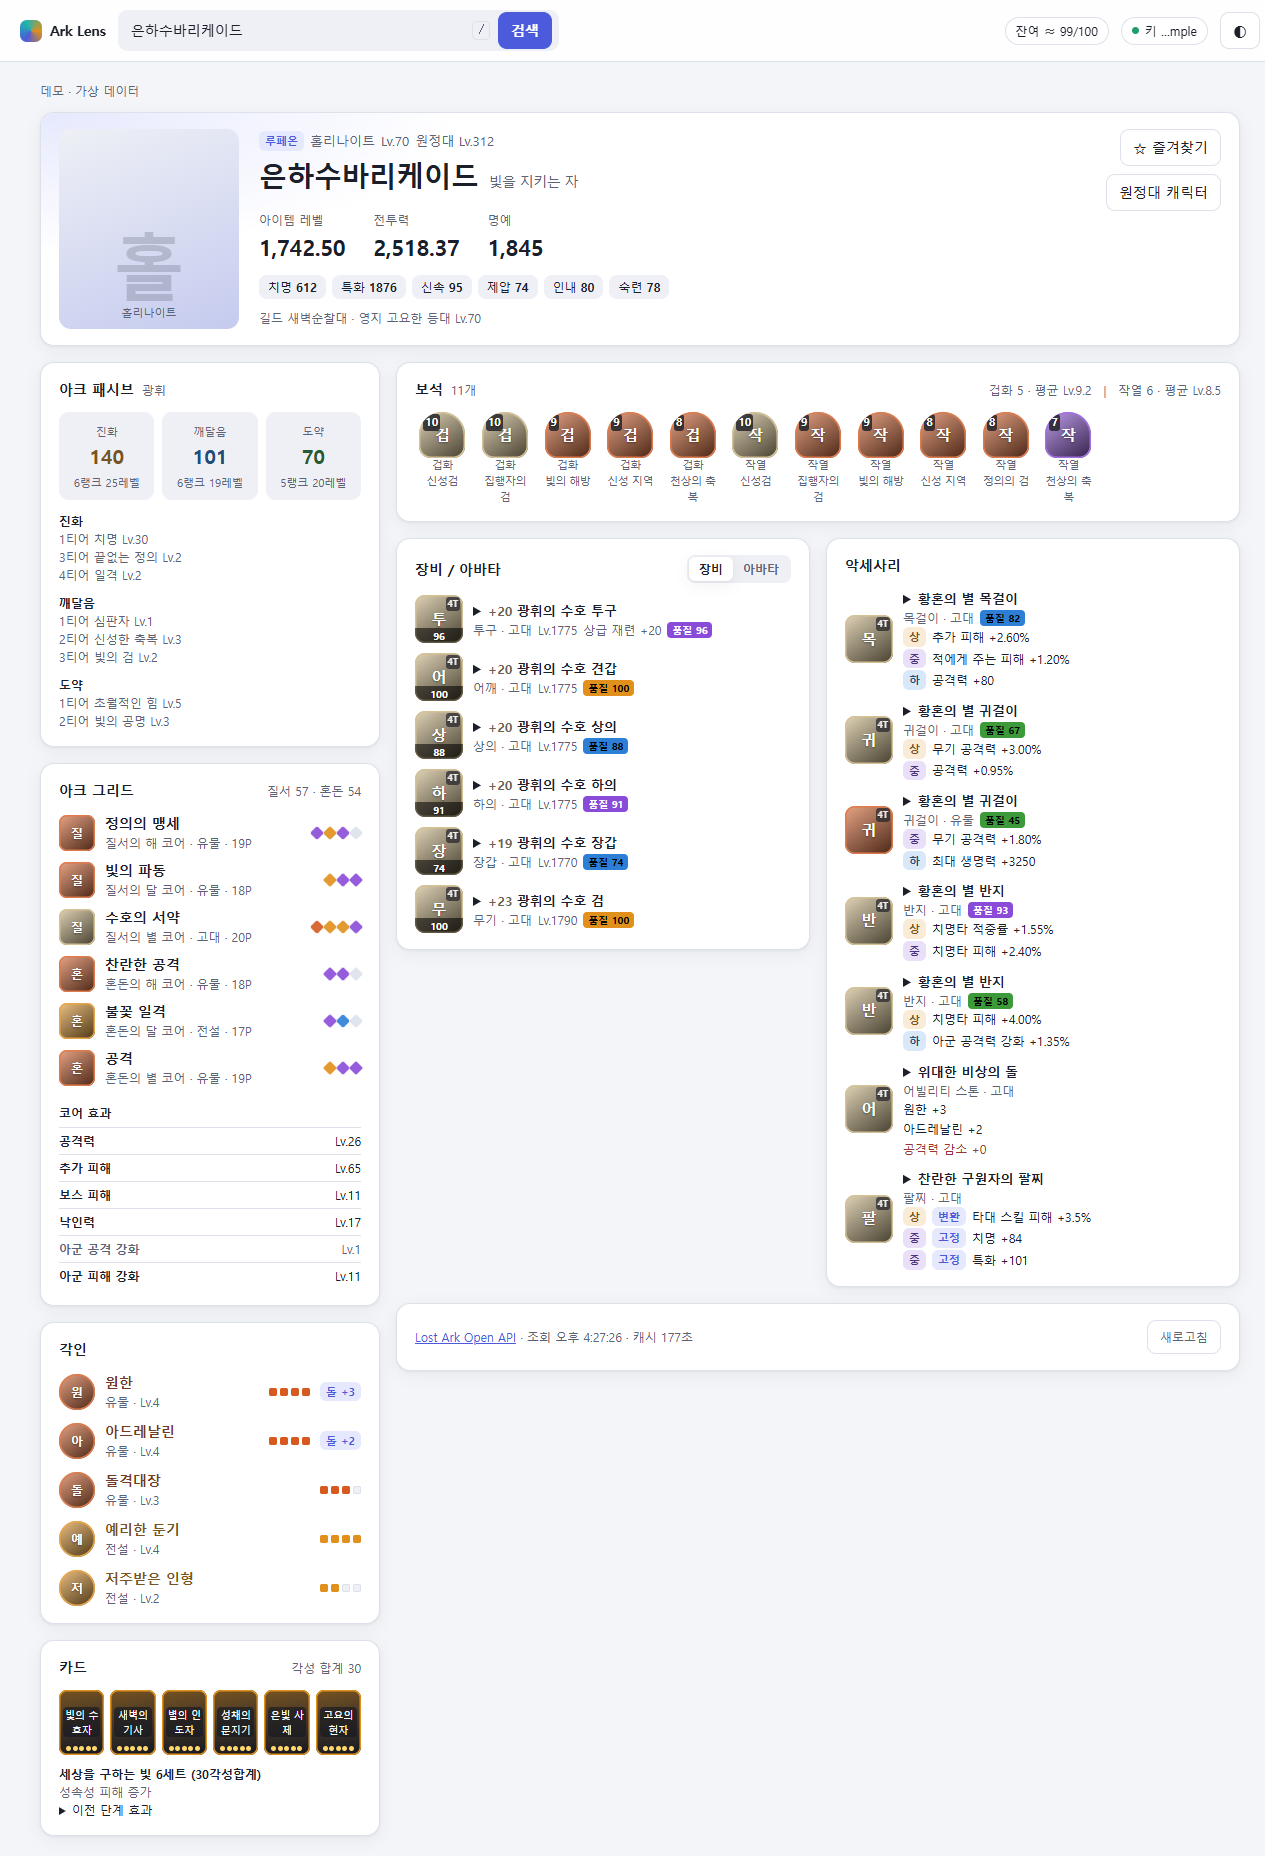
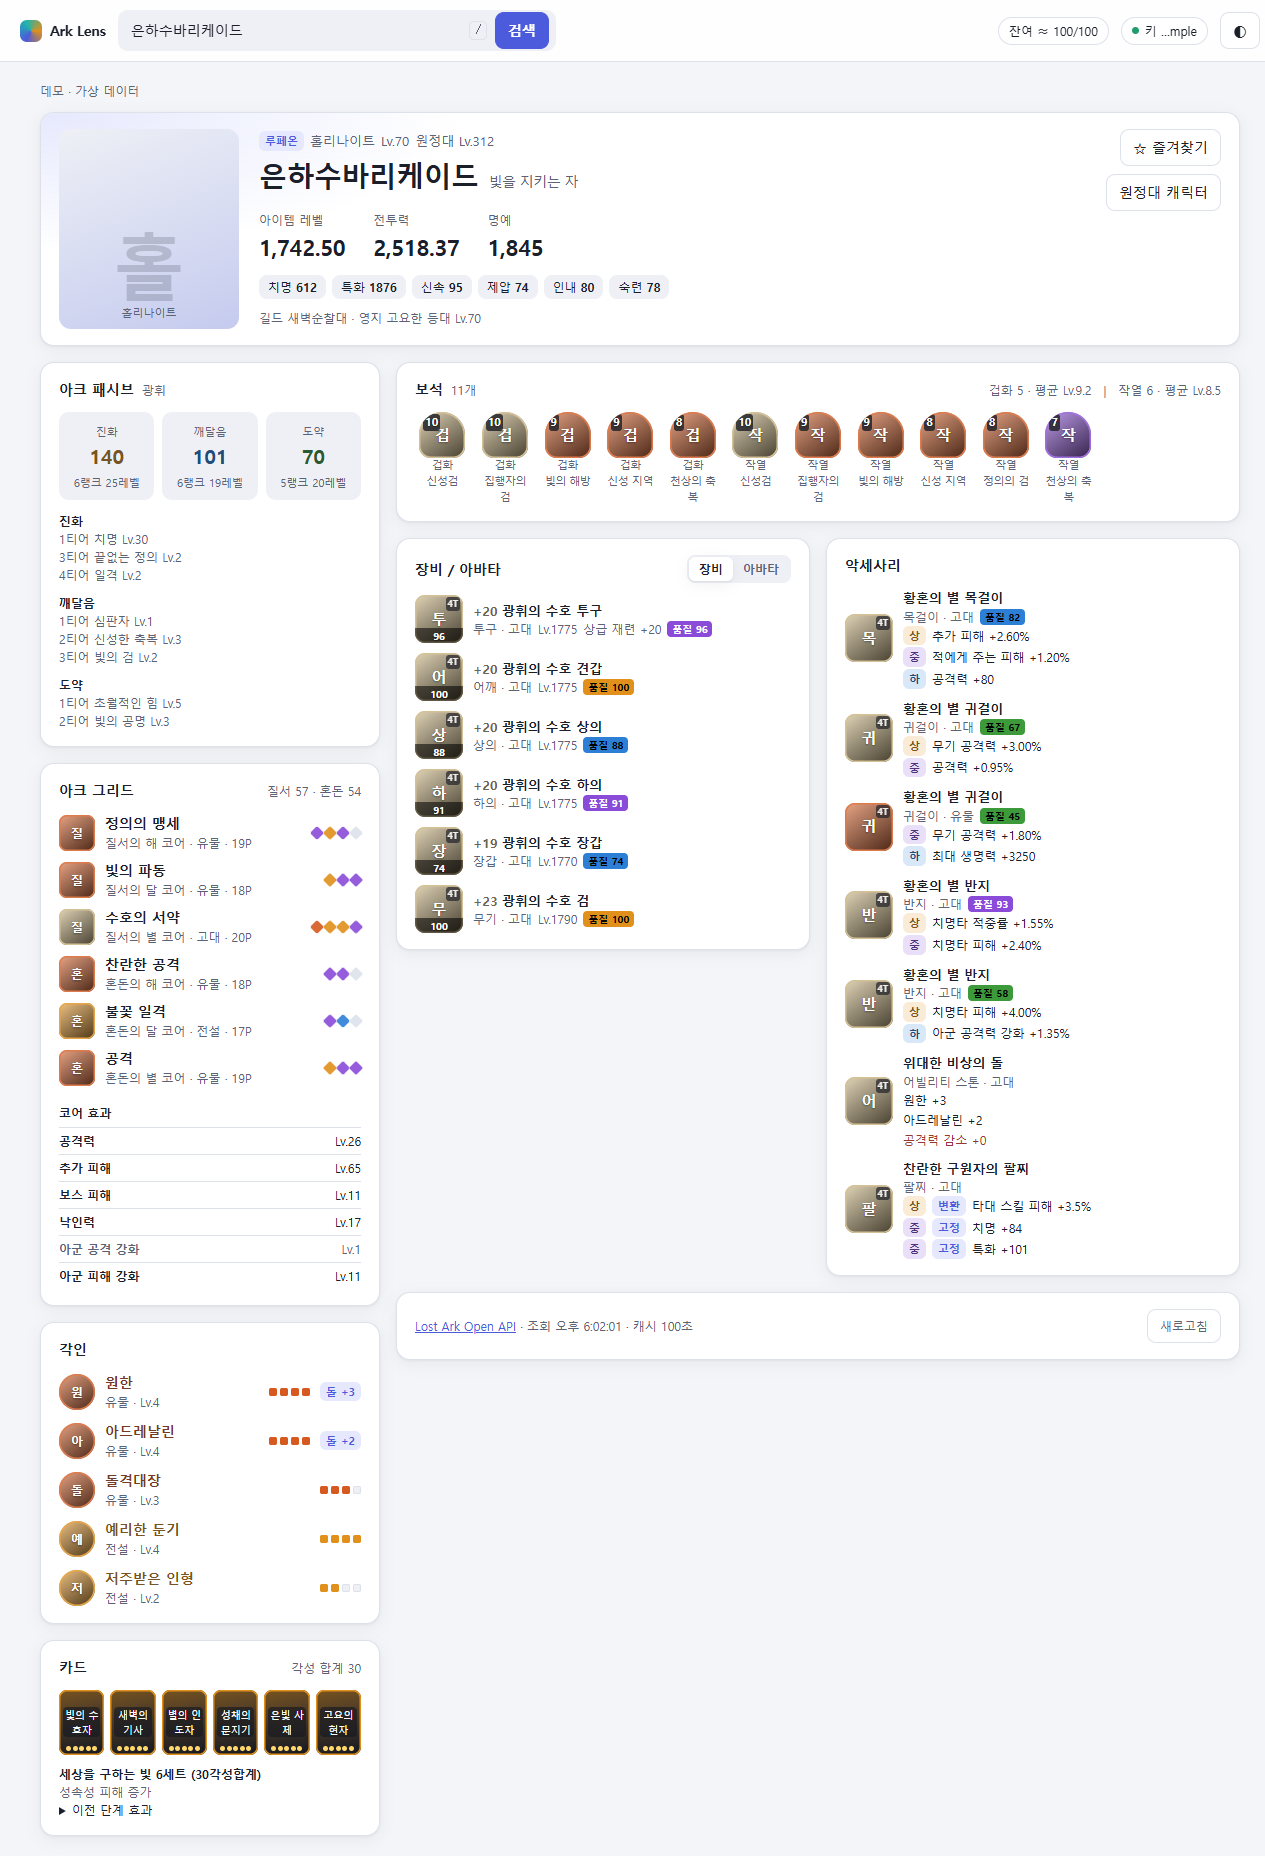
Remove expandable equipped item details

diff --git a/src/sections.tsx b/src/sections.tsx
@@ -7,6 +7,7 @@ import {
   parseTooltip,
   plainText,
   qualityClass,
+  tooltipLines,
 } from "./parse/tooltip";
 import { Card, Empty, GradeIcon, Pill, Picture, Tooltip } from "./ui";
 
@@ -139,10 +140,7 @@ export function PassiveCard({ data }: { data: Armory["ArkPassive"] }) {
                   <strong>{name}</strong>
                   <div className="muted">
                     {effects.map((effect, index) => (
-                      <Tooltip
-                        key={index}
-                        lines={parseTooltip(effect.ToolTip)?.lines}
-                      >
+                      <Tooltip key={index} lines={tooltipLines(effect.ToolTip)}>
                         <span className="passive-effect">
                           {plainText(effect.Description)}
                         </span>
@@ -193,7 +191,7 @@ export function GridCard({ data }: { data: Armory["ArkGrid"] }) {
                 src={slot.Icon}
               />
               <div className="core-name">
-                <Tooltip lines={parseTooltip(slot.Tooltip)?.lines}>
+                <Tooltip lines={tooltipLines(slot.Tooltip)}>
                   <strong>{name ?? type}</strong>
                 </Tooltip>
                 <div className="small muted">
@@ -230,7 +228,7 @@ export function GridCard({ data }: { data: Armory["ArkGrid"] }) {
             {effects.map((effect, index) => (
               <tr key={index} className={effect.Level < 5 ? "muted" : ""}>
                 <th scope="row">
-                  <Tooltip lines={parseTooltip(effect.Tooltip)?.lines}>
+                  <Tooltip lines={tooltipLines(effect.Tooltip)}>
                     {effect.Name}
                   </Tooltip>
                 </th>
@@ -282,7 +280,7 @@ export function EngravingCard({ data }: { data: Armory["ArmoryEngraving"] }) {
                 label={item.Name[0]}
                 src={item.Icon}
               />
-              <Tooltip lines={parseTooltip(item.Tooltip)?.lines}>
+              <Tooltip lines={tooltipLines(item.Tooltip)}>
                 {item.Name} · {item.Grade}
               </Tooltip>
             </div>
@@ -431,7 +429,7 @@ export function GemStrip({ data }: { data: Armory["ArmoryGem"] }) {
                 skill.Option ?? "",
                 ...(skill.Description ?? []),
               ]),
-              ...(parseTooltip(gem.Tooltip)?.lines ?? []),
+              ...tooltipLines(gem.Tooltip),
             ];
             return (
               <div className="gem" key={gem.Slot}>
@@ -481,20 +479,15 @@ function ItemRow({
         badge={accessory ? undefined : quality}
       />
       <div className="item-text">
-        <Tooltip lines={tooltip?.lines}>
-          <span
-            className="name"
-            title={tooltip?.lines.length ? undefined : item.Name}
-          >
-            {name ? (
-              <>
-                <b className="gtext">{name[1]}</b> {name[2]}
-              </>
-            ) : (
-              item.Name
-            )}
-          </span>
-        </Tooltip>
+        <span className="name" title={item.Name}>
+          {name ? (
+            <>
+              <b className="gtext">{name[1]}</b> {name[2]}
+            </>
+          ) : (
+            item.Name
+          )}
+        </span>
         <div className="meta">
           {item.Type} · {item.Grade}
           {tooltip?.itemLevel && <span>Lv.{tooltip.itemLevel}</span>}

diff --git a/src/parse/tooltip.ts b/src/parse/tooltip.ts
@@ -6,7 +6,6 @@ type Option = {
   kind?: "locked" | "changeable";
 };
 export type ParsedTooltip = {
-  lines: string[];
   quality: number | null;
   tier: number | null;
   itemLevel: string | null;
@@ -94,26 +93,43 @@ function braceletOptions(raw: string) {
     .filter((entry) => entry.text);
 }
 
-export function parseTooltip(raw?: string | null): ParsedTooltip | null {
-  if (!raw) return null;
+function tooltipMap(raw?: string | null) {
   try {
-    const root: unknown = JSON.parse(raw);
-    const map = record(root);
-    if (!map || Array.isArray(root)) return null;
+    const root: unknown = raw ? JSON.parse(raw) : null;
+    return Array.isArray(root) ? null : record(root);
+  } catch {
+    return null;
+  }
+}
+
+function textLines(map: Record<string, unknown>) {
+  return Object.values(map)
+    .flatMap((value) => {
+      const block = record(value);
+      return strings(block && "type" in block ? block.value : value);
+    })
+    .flatMap((raw) =>
+      plainText(raw)
+        .split(/\r?\n/)
+        .map((line) => line.trim())
+        .filter(Boolean),
+    );
+}
+
+export function tooltipLines(raw?: string | null) {
+  const map = tooltipMap(raw);
+  return map ? textLines(map) : [];
+}
+
+export function parseTooltip(raw?: string | null): ParsedTooltip | null {
+  const map = tooltipMap(raw);
+  if (!map) return null;
+  try {
     const blocks = Object.values(map)
       .map(record)
       .filter((block) => block !== null);
-    const lines = Object.entries(map)
-      .flatMap(([key, value]) => {
-        const block = record(value);
-        return strings(block && "type" in block ? block.value : map[key]);
-      })
-      .flatMap((raw) =>
-        plainText(raw)
-          .split(/\r?\n/)
-          .map((line) => line.trim())
-          .filter(Boolean),
-      );
+    let fallback: string[] | undefined;
+    const lines = () => (fallback ??= textLines(map));
     let quality: number | null = null;
     const title = record(
       blocks.find((block) => block.type === "ItemTitle")?.value,
@@ -127,7 +143,7 @@ export function parseTooltip(raw?: string | null): ParsedTooltip | null {
       quality = qualityValue;
     const titleText = title
       ? strings(title).map(plainText).join("\n")
-      : lines.join("\n");
+      : lines().join("\n");
     const qualityMatch = titleText.match(/품질\s*(\d+)/)?.[1];
     const tier = titleText.match(/티어\s*(\d+)/)?.[1];
     const refinement = blocks
@@ -193,7 +209,7 @@ export function parseTooltip(raw?: string | null): ParsedTooltip | null {
     }
     if (!options.length) {
       options.push(
-        ...lines
+        ...lines()
           .filter(
             (line) => /^\[[상중하]\]/u.test(line) || accessoryEffect.test(line),
           )
@@ -201,7 +217,7 @@ export function parseTooltip(raw?: string | null): ParsedTooltip | null {
       );
     }
     if (!engravings.length) {
-      for (const [, name, level] of lines
+      for (const [, name, level] of lines()
         .join("\n")
         .matchAll(/\[(.+?)\]\s*활성도\s*\+?(\d+)/g)) {
         engravings.push({
@@ -213,7 +229,6 @@ export function parseTooltip(raw?: string | null): ParsedTooltip | null {
       }
     }
     return {
-      lines,
       quality:
         quality ??
         (qualityMatch && Number(qualityMatch) <= 100

diff --git a/tests/app.test.tsx b/tests/app.test.tsx
@@ -284,6 +284,33 @@ describe("character views with MSW", () => {
     }).toMatchSnapshot();
     if (status === 401) expect(getKey()?.value.status).toBe("rejected");
   });
+  it("shows equipment, accessory and avatar summaries without expandable details", async () => {
+    server.use(http.get(endpoint, () => HttpResponse.json(armory)));
+    go();
+    await screen.findByRole("heading", { name: /은하수바리케이드/ });
+
+    const rows = [...document.querySelectorAll(".eq")];
+    expect(rows).toHaveLength(13);
+    expect(
+      rows.every((row) => !row.querySelector("details, summary, button")),
+    ).toBe(true);
+    expect(screen.getByText("광휘의 수호 검").textContent).toBe(
+      "+23 광휘의 수호 검",
+    );
+    expect(screen.getAllByText(/품질/).length).toBeGreaterThan(0);
+    expect(
+      screen
+        .getByText("찬란한 구원자의 팔찌")
+        .closest(".eq")
+        ?.querySelector(".option-text"),
+    ).toBeTruthy();
+
+    fireEvent.click(screen.getByRole("tab", { name: "아바타" }));
+    const avatar = screen.getByText("새벽 성채 무기").closest(".eq");
+    expect(avatar).toBeTruthy();
+    expect(avatar?.querySelector("details, summary, button")).toBeNull();
+    expect(document.querySelector(".gem .tooltip summary")).toBeTruthy();
+  });
   it("defers siblings, reuses cached results and switches equipment tabs with the keyboard", async () => {
     let armoryCalls = 0;
     let siblingsCalls = 0;

diff --git a/tests/storage-tooltip.test.ts b/tests/storage-tooltip.test.ts
@@ -5,6 +5,7 @@ import {
   armorOrder,
   gemKind,
   parseTooltip,
+  tooltipLines,
   plainText,
 } from "../src/parse/tooltip";
 import {
@@ -260,7 +261,7 @@ describe("tooltip parser against guide §4 structures", () => {
 
   it("decodes entities once and never yields markup", () => {
     expect(plainText("a&amp;lt;b&gt;&nbsp;&#39;c&#39;")).toBe("a&lt;b> 'c'");
-    const parsed = parseTooltip(
+    const lines = tooltipLines(
       JSON.stringify({
         Element_000: {
           type: "SingleTextBox",
@@ -269,6 +270,6 @@ describe("tooltip parser against guide §4 structures", () => {
       }),
     );
     // Rendered as React text only; the parser output contains no live tags.
-    expect(parsed?.lines.join("")).not.toMatch(/<script/i);
+    expect(lines.join("")).not.toMatch(/<script/i);
   });
 });

diff --git a/src/styles/app.css b/src/styles/app.css
@@ -302,10 +302,6 @@ button:disabled {
 .tooltip summary {
   cursor: pointer;
 }
-.tooltip summary .name {
-  display: inline;
-  white-space: normal;
-}
 .tooltip-content {
   margin: 4px 0;
   padding: 6px 8px;
